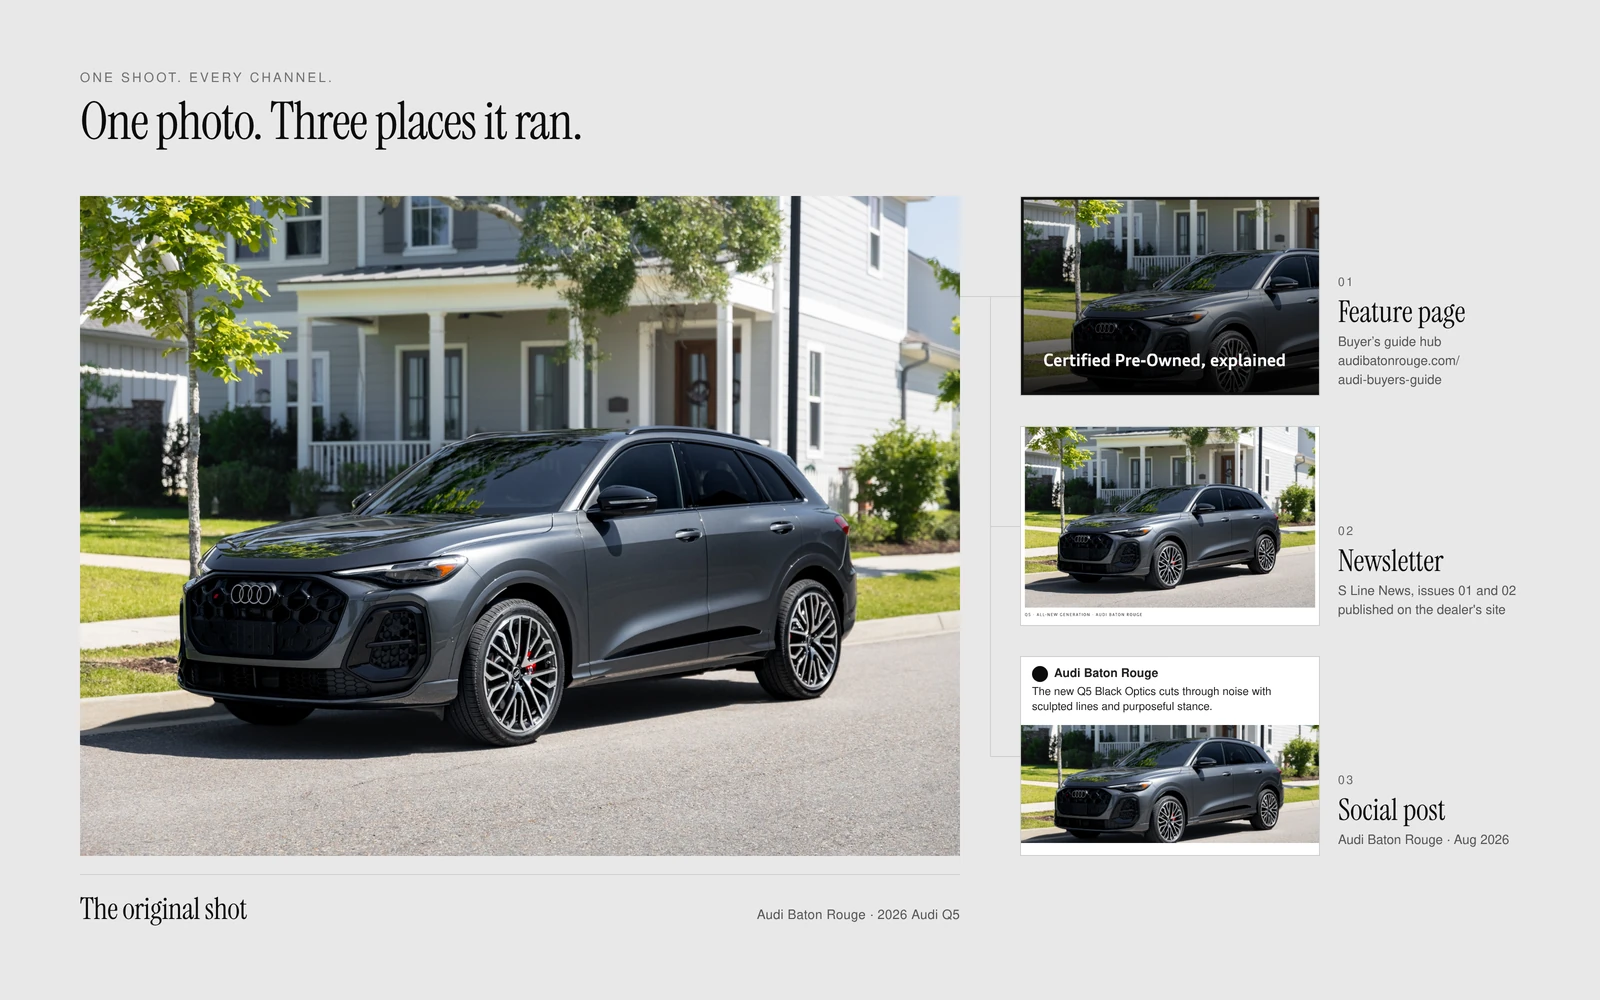
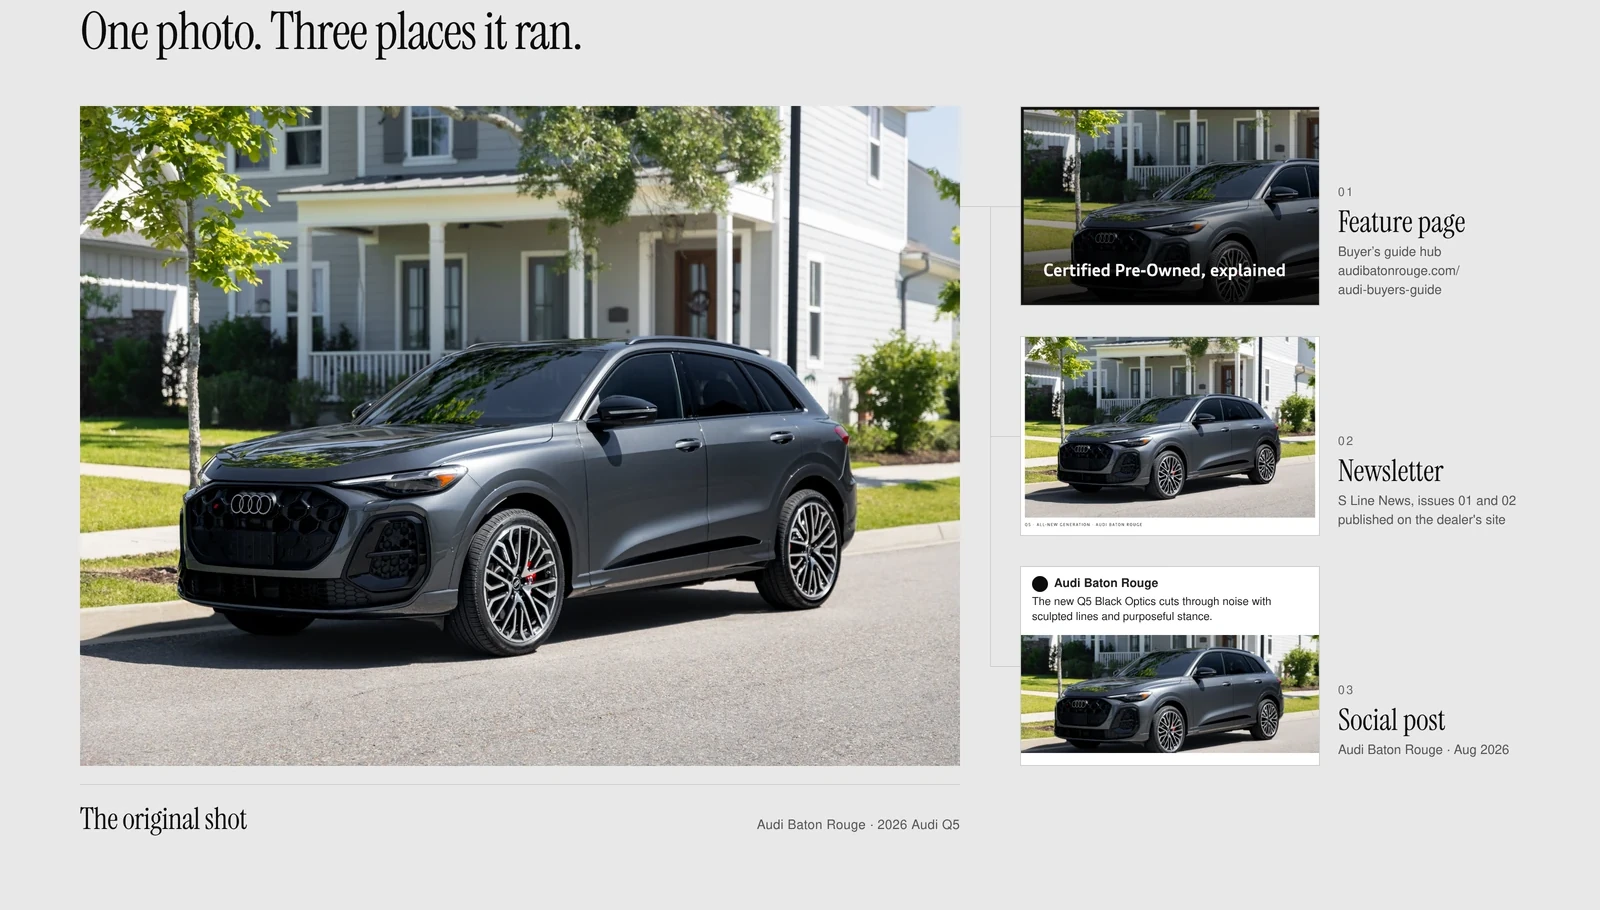
Reorder the tear sheets and drop the repeated eyebrow.
Each grid now leads with a non-Audi store. The Q5 proof graphic no longer repeats the flow strip eyebrow. The reel row stays Q9, Q7, and Seth.

diff --git a/products-and-services.html b/products-and-services.html
@@ -69,7 +69,7 @@
         <source media="(max-width: 900px)" srcset="./public/images/content-engine/flow-strip-mobile.webp" />
         <img src="./public/images/content-engine/flow-strip.webp" alt="One shoot feeds every channel: your lot, feature pages, specials, social, and email and newsletters." width="2400" height="600" />
       </picture>
-      <img class="ps-lead-proof" src="./public/images/content-engine/one-shoot-many-places.webp" alt="One Audi Baton Rouge Q5 photo, and the three places it ran: the buyer's guide page, the S Line News newsletter, and a social post." width="1600" height="1000" />
+      <img class="ps-lead-proof" src="./public/images/content-engine/one-shoot-many-places.webp" alt="One Audi Baton Rouge Q5 photo, and the three places it ran: the buyer's guide page, the S Line News newsletter, and a social post." width="1600" height="910" />
       <div class="ps-pairs">
         <figure class="ps-pair">
           <div class="ps-pair__row">
